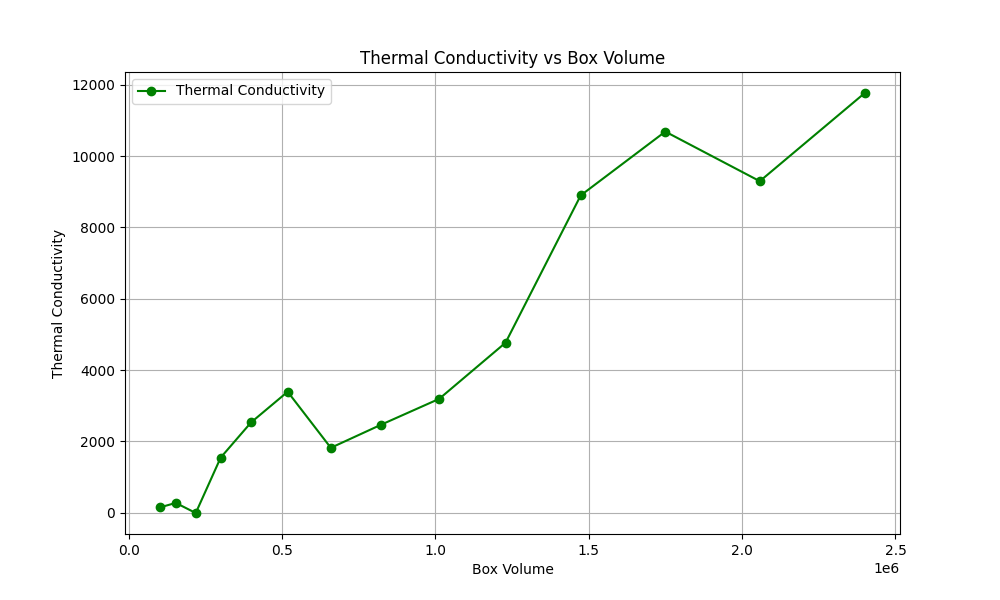
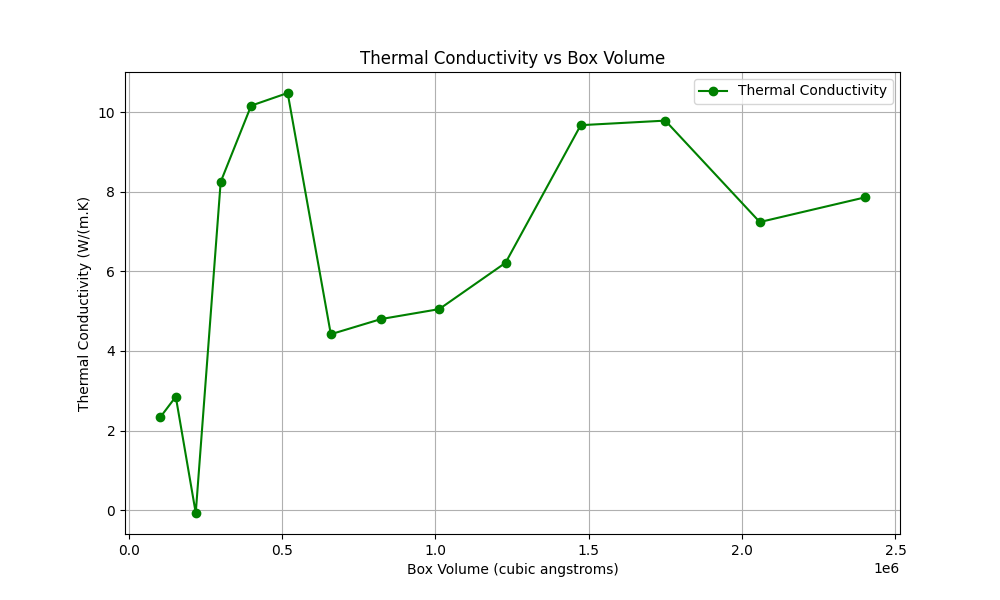
converted thermal conductivity to W/(m.K)

diff --git a/Si_Thermal_Gradient/process_data.py b/Si_Thermal_Gradient/process_data.py
@@ -1,7 +1,10 @@
 from heat_flux_calculations import read_heat_flux_data, savitzky_golay_smooth, get_steady_state_flux
+import temperature_calculations
+
 import matplotlib.pyplot as plt
 import numpy as np
-import temperature_calculations  # Import the helper file
+
+import pdb
 
 # Function to calculate box volume based on the suffix
 def calculate_box_volume(suffix):
@@ -101,19 +104,25 @@ def plot_thermal_conductivity_vs_volume(steady_state_fluxes, slopes, box_volumes
 
     # Calculate thermal conductivity for each data point
     for flux, slope, volume in zip(steady_state_fluxes, slopes, box_volumes):
+    
         # Calculate temperature gradient (temperature slope / box size)
-        temperature_gradient = slope / volume
+        temperature_gradient = slope
 
         # Calculate thermal conductivity with the negative sign
         thermal_conductivity = -flux / temperature_gradient
+        
+        # Convert to W/(m.K)
+        thermal_conductivity = thermal_conductivity * ((1.60218e-19)/(1e-22))
+        # pdb.set_trace()
+        
         thermal_conductivities.append(thermal_conductivity)
 
     # Plot thermal conductivity vs box volume
     plt.figure(figsize=(10, 6))
     plt.plot(box_volumes, thermal_conductivities, marker='o', linestyle='-', color='green', label='Thermal Conductivity')
 
-    plt.xlabel('Box Volume')
-    plt.ylabel('Thermal Conductivity')
+    plt.xlabel('Box Volume (cubic angstroms)')
+    plt.ylabel('Thermal Conductivity (W/(m.K)')
     plt.title('Thermal Conductivity vs Box Volume')
     plt.grid(True)
     plt.legend()

diff --git a/Si_Thermal_Gradient/temperature_calculations.py b/Si_Thermal_Gradient/temperature_calculations.py
@@ -72,4 +72,4 @@ def plot_temperature_data(filename):
 
 # Main code block for single-file plotting (for testing)
 if __name__ == "__main__":
-    plot_temperature_data('./lammps_out/temp_profile_1.0.txt')
+    plot_temperature_data('./lammps_out/temp_profile_1.5.txt')
